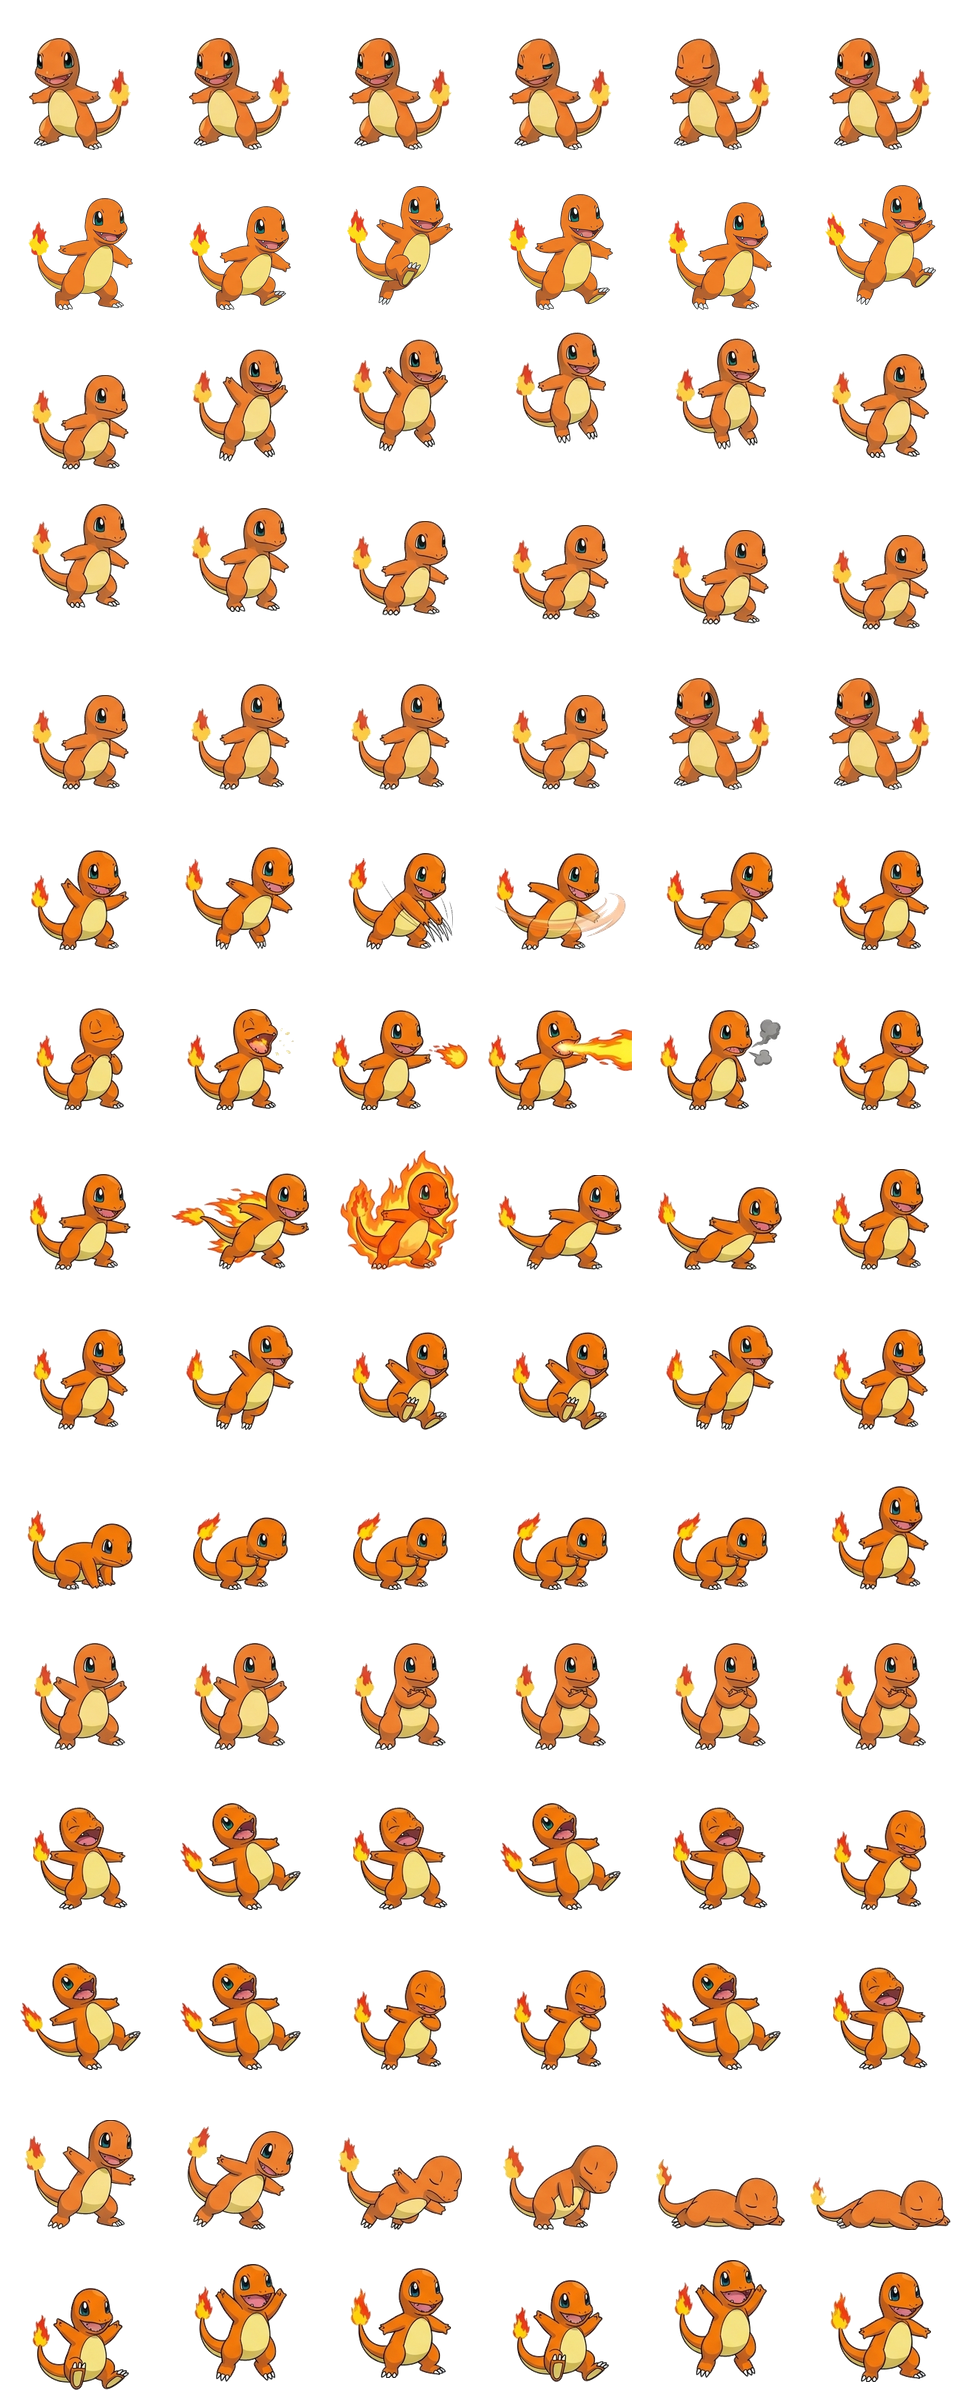
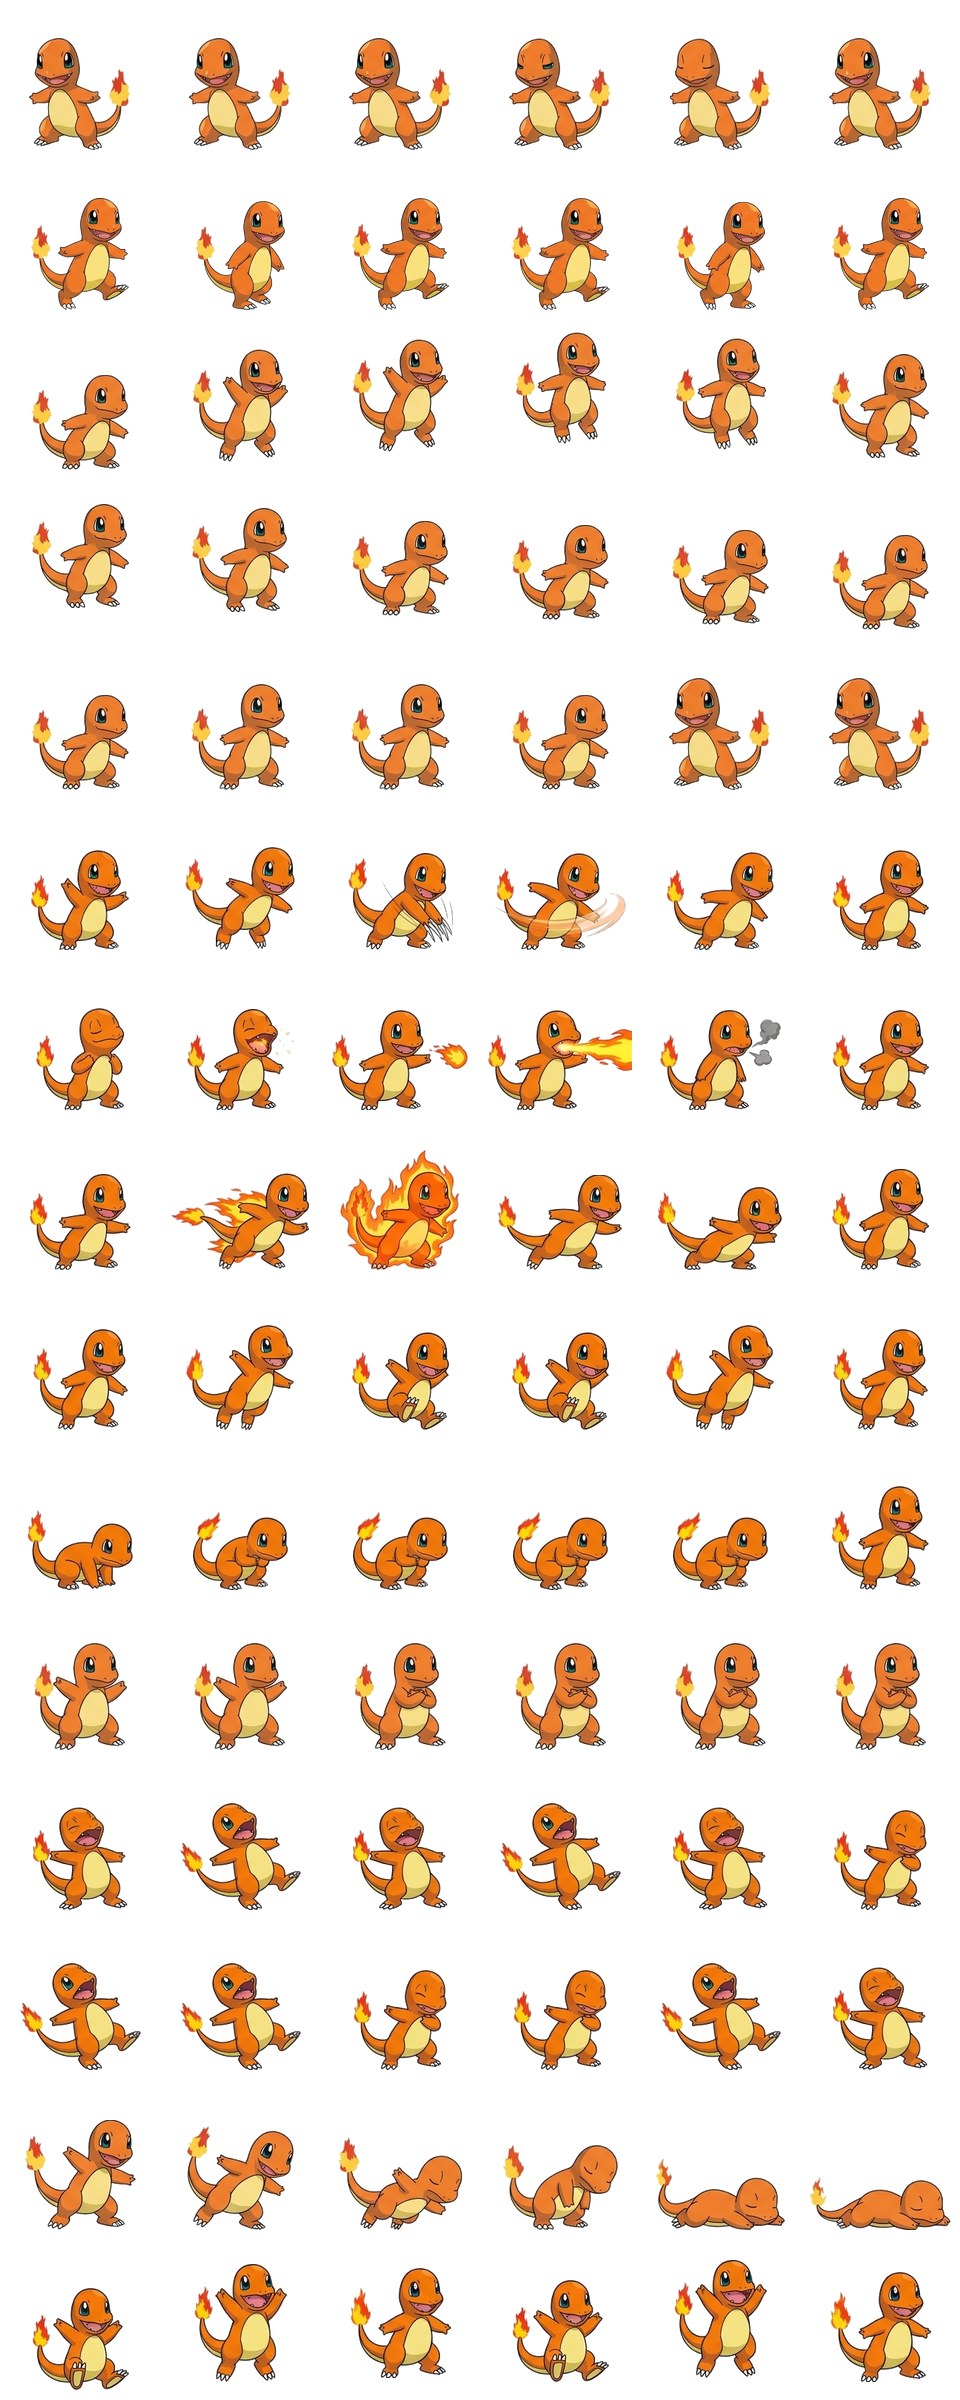
sửa lại di chuyển charmander

diff --git a/packages/game-data/src/index.ts b/packages/game-data/src/index.ts
@@ -360,6 +360,10 @@ const runedrakeAnimations: PokemonDefinition['animations'] = {
   ...animations,
   run: { ...animations.run, frameRate: 10 },
 };
+const charmanderAnimations: PokemonDefinition['animations'] = {
+  ...animations,
+  run: { ...animations.run, frameRate: 9 },
+};
 export const POKEMON: Record<SpeciesId, PokemonDefinition> = {
   'water-slime': {
     id: 'water-slime',
@@ -450,7 +454,7 @@ export const POKEMON: Record<SpeciesId, PokemonDefinition> = {
       SKILLS.flameBurst,
       SKILLS.infernoStream,
     ],
-    animations,
+    animations: charmanderAnimations,
     ai: { aggression: 0.98, dodge: 0.65, guard: 0.12, preferredDistance: 90, retreat: 0.2 },
   },
   squirtle: {

diff --git a/docs/character-concepts/charmander/README.md b/docs/character-concepts/charmander/README.md
@@ -7,7 +7,7 @@ Nhân vật Charmander được thiết kế lại hoàn toàn dựa trên hình
 - Ảnh gốc người dùng: `reference.png`
 - Ảnh đã tách nền giữ nguyên răng nanh trắng và móng vuốt: `charmander-isolated.png`
 - Bảng nguồn chuyển động (`movement-source.jpg`): 5 hàng các tư thế đứng thở/chớp mắt/lửa bập bùng, chu kỳ nhảy/tiếp đất, thế phòng thủ giơ vuốt thủ trước ngực, và chuỗi ngã gục kiệt sức nằm sấp với mắt nhắm.
-- Bảng nguồn chạy mượt mà (`run-source-v2.jpg`): Chu kỳ chạy 2 chân 6 khung hình hoàn chỉnh với bước luân phiên chân trái - chân phải, nhún chân chịu lực (squash) và phóng người trên không (airborne stride) lặp vòng hoàn hảo.
+- Bảng nguồn bước đi mượt mà (`walk-source-v4.jpg`): Chu kỳ đi/chạy 2 chân 6 khung hình hoàn chỉnh, tiếp đất vững vàng (grounded), luân phiên chân trái - chân phải nhịp nhàng, độ cao đầu và mắt ổn định tuyệt đối, không bị nảy giật hay bay nhảy đột ngột.
 - Bảng nguồn chiến đấu (`combat-source.jpg`): 5 hàng các tư thế đòn cào cắn vật lý (Scratch / Slash) với vệt chém móng vuốt, tụ khí và phun luồng lửa / quả cầu lửa (Ember / Flamethrower), lướt nhanh Flame Charge bao bọc luồng lửa rực cháy, bước lùi né đòn và cúi thấp, trúng đòn choáng váng, và nhảy tưng bừng reo hò chiến thắng với hai tay giơ cao.
 - Các khung hình đã tách nền sạch sẽ với antialiasing khử viền trắng: `extracted/`.
 
@@ -27,7 +27,13 @@ Lệnh sinh ra 2 asset runtime vào `apps/frontend/public/assets/`:
 ## Cấu trúc 15 hàng Animation
 
 1. `idle`: Đứng thở nhịp nhàng, chớp mắt tự nhiên, ngọn lửa đuôi bập bùng sống động.
-2. `run`: Chu kỳ chạy 2 chân nhịp nhàng 6 khung hình linh hoạt luân phiên chân (Frame 0: chân phải chạm đất $\rightarrow$ Frame 1: gập gối nhún người chịu lực $\rightarrow$ Frame 2: bật người bay trên không $\rightarrow$ Frame 3: chân trái vươn tới chạm đất $\rightarrow$ Frame 4: gập gối trái nhún người chịu lực $\rightarrow$ Frame 5: bật người bay trên không khép vòng lặp mượt mà).
+2. `run`: Chu kỳ di chuyển 2 chân tiếp đất trơn tru 6 khung hình (`frameRate: 9` trong `packages/game-data` mang lại nhịp bước tự nhiên ~0.67s/vòng lặp, khi sprint tăng tốc mượt mà):
+   - Frame 0: Chân trái bước vươn tới trước, chân phải chống sau.
+   - Frame 1: Chuyển trọng tâm qua chân phải, thân thẳng nhịp nhàng.
+   - Frame 2: Chân phải bước gót chạm đất, chân trái đẩy lùi sau.
+   - Frame 3: Chân phải chạm đất trọn vẹn, chân trái thu về sau.
+   - Frame 4: Chuyển trọng tâm qua chân trái, thân thẳng nhịp nhàng.
+   - Frame 5: Chân trái bước gót vươn tới trước khép vòng lặp hoàn hảo.
 3. `jump`: Nhún người lấy đà → phóng người vút lên không trung → lơ lửng đỉnh điểm.
 4. `fall`: Thả rơi tự do trong không trung, quán tính chúc xuống.
 5. `land`: Tiếp đất nhún chân giảm chấn và đứng thẳng dậy.
